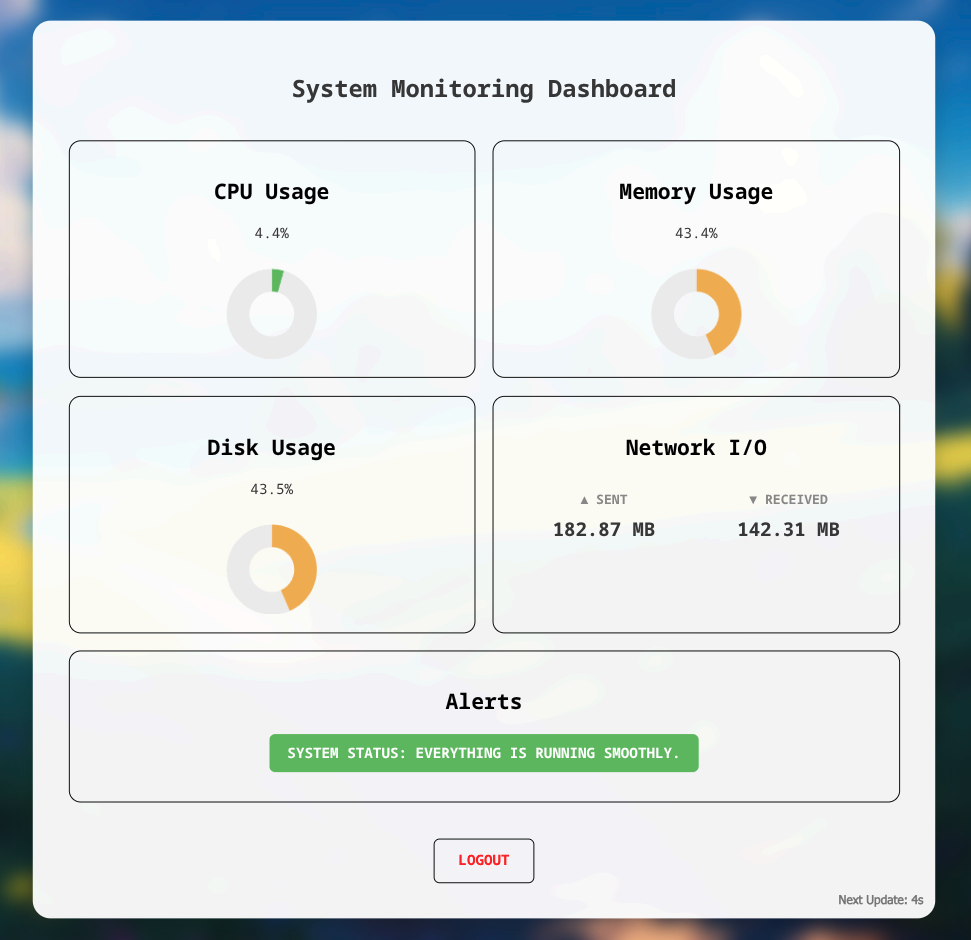
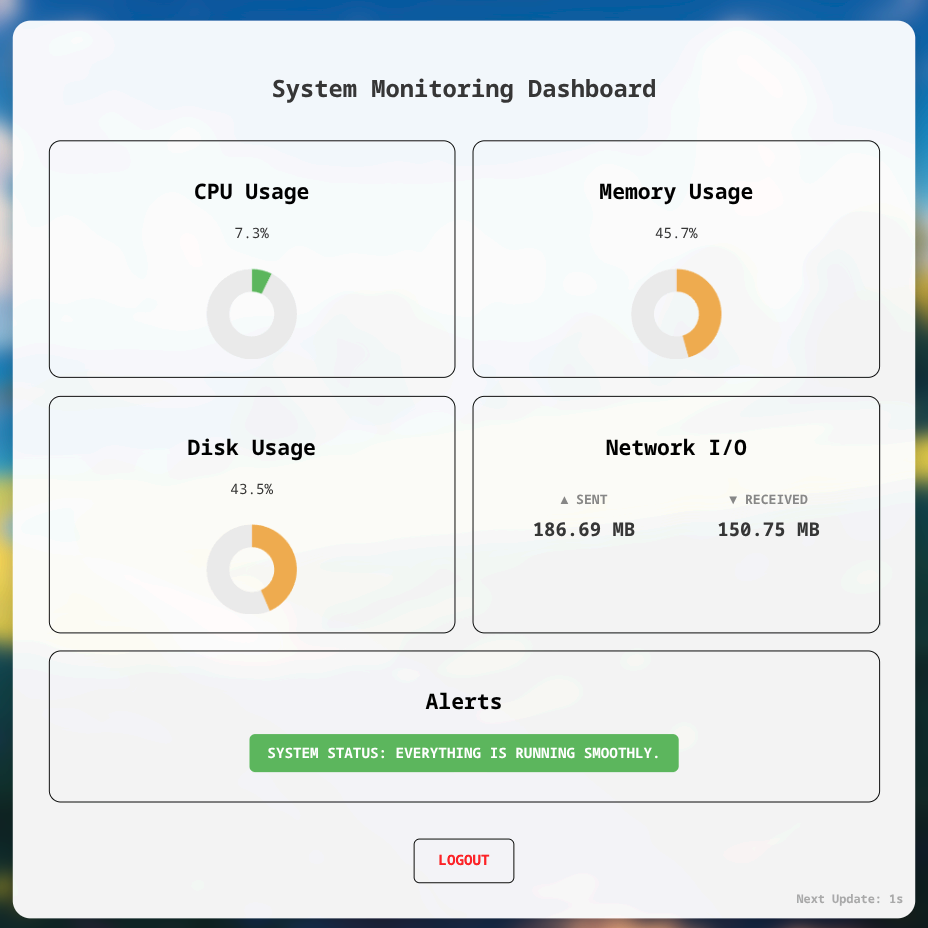
imageN

diff --git a/static/css/styles.css b/static/css/styles.css
@@ -90,10 +90,11 @@ p {
 
 .update-time {
     position: absolute;
+    font-family: monospace;
     bottom: 10px;
     right: 10px;
     font-size: 10px;
-    color: #777;
+    color: #aaa;
     font-weight: bold;
 }
 
